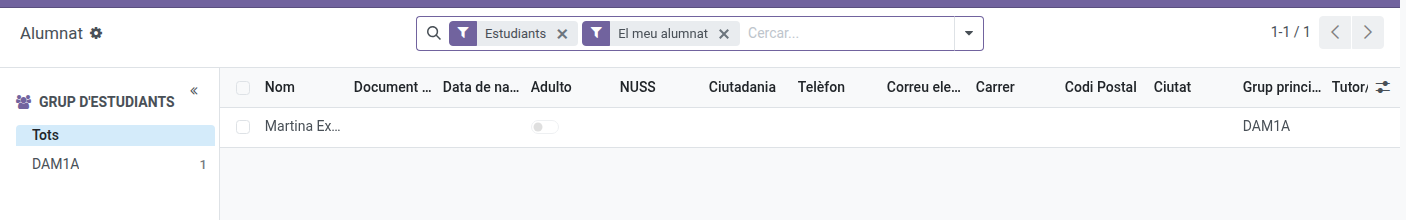
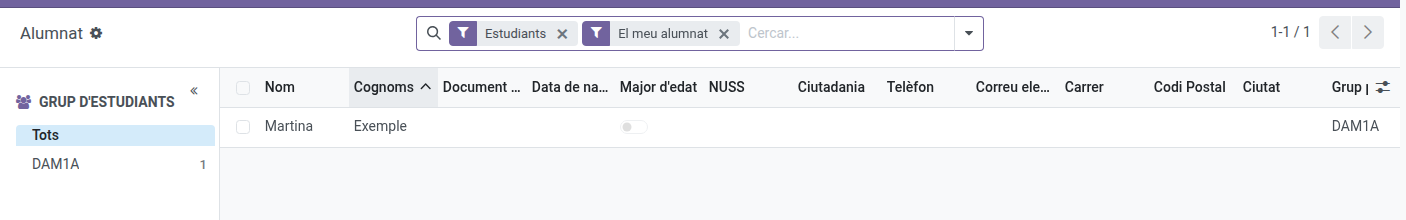
Students list: first name and last name columns, sorted by last name
Closes #655

diff --git a/static/tests/tours/withdrawal_tour.js b/static/tests/tours/withdrawal_tour.js
@@ -1,6 +1,7 @@
 /** @odoo-module **/
 
 import { registry } from "@web/core/registry";
+import { searchStudent, studentCell, studentRow } from "@ems/../tests/tours/student_list_helpers";
 
 // Archiving via the generic "Archive" action (form cog-menu for a single record, list
 // multi-selection for several) must open the withdrawal wizard — not archive silently.
@@ -20,8 +21,9 @@ registry.category("web_tour.tours").add("ems_archive_action_single_opens_wizard"
             content: "Switch to list view",
             run: "click",
         },
+        ...searchStudent("Archive Action Tour Single"),
         {
-            trigger: ".o_list_view .o_data_row .o_data_cell:contains('Archive Action Tour Single')",
+            trigger: `.o_list_view ${studentCell("Archive Action Tour Single")}`,
             content: "Open the seeded student",
             run: "click",
         },
@@ -96,15 +98,16 @@ registry.category("web_tour.tours").add("ems_archive_action_bulk_opens_wizard", 
             content: "Switch to list view",
             run: "click",
         },
+        ...searchStudent("Archive Action Tour Bulk"),
         {
             trigger:
-                ".o_data_row:has(.o_data_cell:contains('Archive Action Tour Bulk A')) .o_list_record_selector",
+                `${studentRow("Archive Action Tour Bulk A")} .o_list_record_selector`,
             content: "Select the first seeded student",
             run: "click",
         },
         {
             trigger:
-                ".o_data_row:has(.o_data_cell:contains('Archive Action Tour Bulk B')) .o_list_record_selector",
+                `${studentRow("Archive Action Tour Bulk B")} .o_list_record_selector`,
             content: "Select the second seeded student",
             run: "click",
         },
@@ -150,7 +153,7 @@ registry.category("web_tour.tours").add("ems_archive_action_bulk_opens_wizard", 
         },
         {
             trigger:
-                ".o_list_view:not(:has(.o_data_cell:contains('Archive Action Tour Bulk A')))",
+                `.o_list_view:not(:has(${studentRow("Archive Action Tour Bulk A")}))`,
             content: "Both withdrawn students no longer show under the default Students filter",
         },
     ],
@@ -174,8 +177,9 @@ registry.category("web_tour.tours").add("ems_archive_action_expulsion_opens_wiza
             content: "Switch to list view",
             run: "click",
         },
+        ...searchStudent("Archive Action Tour Expulsion"),
         {
-            trigger: ".o_list_view .o_data_row .o_data_cell:contains('Archive Action Tour Expulsion')",
+            trigger: `.o_list_view ${studentCell("Archive Action Tour Expulsion")}`,
             content: "Open the seeded student",
             run: "click",
         },
@@ -316,7 +320,7 @@ registry.category("web_tour.tours").add("ems_archive_action_shows_in_list", {
             run: "click",
         },
         {
-            trigger: ".o_list_view .o_data_row .o_data_cell:contains('Archive Action Tour Single')",
+            trigger: `.o_list_view ${studentCell("Archive Action Tour Single")}`,
             content: "The withdrawn (now archived) student still shows up under Former students",
         },
     ],

diff --git a/static/tests/tours/contact_tour.js b/static/tests/tours/contact_tour.js
@@ -1,6 +1,7 @@
 /** @odoo-module **/
 
 import { registry } from "@web/core/registry";
+import { searchStudent, studentCell } from "@ems/../tests/tours/student_list_helpers";
 
 // Opens a freshly seeded student (created by the Python test, not a real production
 // contact — see test_contact_tour.py) so this tour is free to actually create data:
@@ -40,8 +41,9 @@ registry.category("web_tour.tours").add("ems_contact_tabs_and_relation_wizard", 
             content: "Switch to list view",
             run: "click",
         },
+        ...searchStudent("Contact Tour Student"),
         {
-            trigger: ".o_list_view .o_data_row .o_data_cell:contains('Contact Tour Student')",
+            trigger: `.o_list_view ${studentCell("Contact Tour Student")}`,
             content: "Open the seeded student",
             run: "click",
         },
@@ -176,6 +178,43 @@ registry.category("web_tour.tours").add("ems_contact_tabs_and_relation_wizard", 
         {
             trigger: ".o_form_view .o_field_widget[name='relation_all_ids'] .o_data_row td:contains('Tour Father')",
             content: "The new relation shows up in the Addresses tab list",
+        },
+    ],
+});
+
+// Issue #655: the Students list shows first name and last name as columns of their own, sorted by
+// last name like the roll-call, and the complete name is hidden by default. The fixture's last
+// names start with "Tslt" so they sort together, Aguilar before Bosch, the reverse of their
+// first names.
+registry.category("web_tour.tours").add("ems_students_list_sorted_by_last_name", {
+    test: true,
+    url: "/odoo/action-ems.action_student_kanban",
+    steps: () => [
+        {
+            trigger: ".o_switch_view.o_list",
+            content: "Switch to list view",
+            run: "click",
+        },
+        {
+            trigger: ".o_list_view th[data-name='firstname'] + th[data-name='lastname']",
+            content: "First name and last name are columns of their own, in that order",
+        },
+        {
+            trigger: ".o_list_view:not(:has(th[data-name='complete_name']))",
+            content: "The complete name is hidden by default",
+        },
+        {
+            trigger: ".o_list_view .o_data_row:first-child td[name='lastname']:contains('Tslt Aguilar')",
+            content: "Sorted by last name: Zoe Tslt Aguilar comes before Ana Tslt Bosch",
+        },
+        {
+            trigger: ".o_list_view th[data-name='lastname']",
+            content: "Sort by last name the other way round",
+            run: "click",
+        },
+        {
+            trigger: ".o_list_view .o_data_row:first-child td[name='lastname']:contains('Tslt Bosch')",
+            content: "Now Bosch comes first",
         },
     ],
 });

diff --git a/static/tests/tours/student_my_groups_tour.js b/static/tests/tours/student_my_groups_tour.js
@@ -1,6 +1,7 @@
 /** @odoo-module **/
 
 import { registry } from "@web/core/registry";
+import { searchStudent, studentCell, studentRow } from "@ems/../tests/tours/student_list_helpers";
 
 // Issue #421: the Students action opens with a second default facet ("My students") that
 // scopes the list to the groups the logged-in teacher actually teaches or tutors. Runs as a
@@ -23,12 +24,13 @@ registry.category("web_tour.tours").add("ems_student_my_groups", {
             content: "Switch to list view",
             run: "click",
         },
+        ...searchStudent("My Groups"),
         {
-            trigger: ".o_list_view .o_data_cell:contains('0000 My Groups Own Student')",
+            trigger: `.o_list_view ${studentCell("0000 My Groups Own Student")}`,
             content: "The student of the teacher's own group is listed",
         },
         {
-            trigger: ".o_list_view:not(:has(.o_data_cell:contains('0001 My Groups Other Student')))",
+            trigger: `.o_list_view:not(:has(${studentRow("0001 My Groups Other Student")}))`,
             content: "A student of a group this teacher does not teach is filtered out",
         },
         {
@@ -37,7 +39,7 @@ registry.category("web_tour.tours").add("ems_student_my_groups", {
             run: "click",
         },
         {
-            trigger: ".o_list_view .o_data_cell:contains('0001 My Groups Other Student')",
+            trigger: `.o_list_view ${studentCell("0001 My Groups Other Student")}`,
             content: "Every student is visible again once the facet is cleared",
         },
         {

diff --git a/static/tests/tours/student_list_helpers.js b/static/tests/tours/student_list_helpers.js
@@ -1,0 +1,28 @@
+/** @odoo-module **/
+
+// The Students list shows the first name and the last names as columns of their own, never the
+// complete name (issue #655). partner_firstname, with the centre's "first_last" order, keeps the
+// first word of a name as the first name and the rest as the last names. `name` is (part of) a
+// complete name: whether or not it starts with the first name, everything after its first word is
+// in the last names, so the row is found by that.
+export function studentRow(name) {
+    const lastnames = name.split(" ").slice(1).join(" ") || name;
+    return `.o_data_row:has(.o_data_cell[name='lastname']:contains('${lastnames}'))`;
+}
+
+// A cell of that student's row, to open it.
+export function studentCell(name) {
+    return `${studentRow(name)} .o_data_cell[name='lastname']`;
+}
+
+// Steps searching the Students list for `text`, so a test student is found on the first page
+// whatever the centre's own students are: the list is sorted by last name.
+export function searchStudent(text) {
+    return [
+        // Only once the list is loaded: typed while the view is still switching, the text is lost.
+        { trigger: ".o_list_view .o_data_row", content: "The list is loaded" },
+        { trigger: ".o_searchview_input", content: `Search for ${text}`, run: `edit ${text}` },
+        { trigger: ".o_searchview_input", content: "Confirm the search", run: "press Enter" },
+        { trigger: `.o_searchview_facet:contains('${text}')`, content: "The search facet is applied" },
+    ];
+}

diff --git a/static/tests/tours/student_google_workspace_tour.js b/static/tests/tours/student_google_workspace_tour.js
@@ -1,6 +1,7 @@
 /** @odoo-module **/
 
 import { registry } from "@web/core/registry";
+import { searchStudent, studentCell } from "@ems/../tests/tours/student_list_helpers";
 import { checkActions, clickAction } from "@ems/../tests/tours/actions_dropdown_helpers";
 
 // Covers the two-stage leaving lifecycle (#388) as it is rendered on the student form
@@ -26,8 +27,9 @@ registry.category("web_tour.tours").add("ems_student_google_workspace_lifecycle"
             run: "click",
         },
         // --- stage 1: deactivation scheduled, nothing changed in Google yet ---
+        ...searchStudent("GW Student"),
         {
-            trigger: ".o_list_view .o_data_row .o_data_cell:contains('0000 GW Student Scheduled')",
+            trigger: `.o_list_view ${studentCell("0000 GW Student Scheduled")}`,
             content: "Open the student whose deactivation is scheduled",
             run: "click",
         },
@@ -55,7 +57,7 @@ registry.category("web_tour.tours").add("ems_student_google_workspace_lifecycle"
         },
         // --- stage 2: suspended, deletion scheduled --------------------------
         {
-            trigger: ".o_list_view .o_data_row .o_data_cell:contains('0000 GW Student Suspended')",
+            trigger: `.o_list_view ${studentCell("0000 GW Student Suspended")}`,
             content: "Open the suspended student",
             run: "click",
         },

diff --git a/static/tests/tours/contact_wpi_readonly_tour.js b/static/tests/tours/contact_wpi_readonly_tour.js
@@ -1,6 +1,7 @@
 /** @odoo-module **/
 
 import { registry } from "@web/core/registry";
+import { searchStudent, studentCell } from "@ems/../tests/tours/student_list_helpers";
 
 // Regression (found 2026-09-06, alongside issue #395): 'wpi_enrolled' was missing
 // 'read_only_user' from its readonly condition - is_tutor_readonly alone is False for a
@@ -28,8 +29,9 @@ registry.category("web_tour.tours").add("ems_contact_wpi_readonly_for_non_tutora
             content: "Switch to list view",
             run: "click",
         },
+        ...searchStudent("0001 Group Change Tour Non-Tutorand"),
         {
-            trigger: ".o_list_view .o_data_row .o_data_cell:contains('0001 Group Change Tour Non-Tutorand')",
+            trigger: `.o_list_view ${studentCell("0001 Group Change Tour Non-Tutorand")}`,
             content: "Open a student this teacher/tutor does NOT tutor",
             run: "click",
         },

diff --git a/static/tests/tours/contact_head_of_studies_tour.js b/static/tests/tours/contact_head_of_studies_tour.js
@@ -1,6 +1,7 @@
 /** @odoo-module **/
 
 import { registry } from "@web/core/registry";
+import { searchStudent, studentCell } from "@ems/../tests/tours/student_list_helpers";
 
 // Issue #448: a Head/Deputy Head of Studies (not the student's own tutor) reported the
 // personal-data block hidden and an AccessError deleting a family contact. tests/
@@ -26,8 +27,9 @@ registry.category("web_tour.tours").add("ems_contact_head_of_studies_full_access
             content: "Switch to list view",
             run: "click",
         },
+        ...searchStudent("HoS Contact Tour Student"),
         {
-            trigger: ".o_list_view .o_data_row .o_data_cell:contains('HoS Contact Tour Student')",
+            trigger: `.o_list_view ${studentCell("HoS Contact Tour Student")}`,
             content: "Open the seeded student",
             run: "click",
         },

diff --git a/static/tests/tours/enrollment_slot_tour.js b/static/tests/tours/enrollment_slot_tour.js
@@ -1,6 +1,7 @@
 /** @odoo-module **/
 
 import { registry } from "@web/core/registry";
+import { searchStudent, studentCell } from "@ems/../tests/tours/student_list_helpers";
 
 // Issue #534, Studies tab: switch on "Custom schedule", customize the subject (its group's
 // sessions become editable slots), drop Tuesday with group C and add Wednesday with group D.
@@ -13,8 +14,9 @@ registry.category("web_tour.tours").add("ems_enrollment_slot", {
             content: "Switch to list view",
             run: "click",
         },
+        ...searchStudent("0000 TSLT Split Student"),
         {
-            trigger: ".o_list_view .o_data_row .o_data_cell:contains('0000 TSLT Split Student')",
+            trigger: `.o_list_view ${studentCell("0000 TSLT Split Student")}`,
             content: "Open the student",
             run: "click",
         },

diff --git a/static/tests/tours/enrollment_subject_group_tour.js b/static/tests/tours/enrollment_subject_group_tour.js
@@ -1,6 +1,7 @@
 /** @odoo-module **/
 
 import { registry } from "@web/core/registry";
+import { searchStudent, studentCell } from "@ems/../tests/tours/student_list_helpers";
 
 // Studies tab of a 2nd-year student: the subject dropdown only offers subjects of the
 // student's own study, and a subject the 1st-year enrollment template sells goes to the
@@ -14,8 +15,9 @@ registry.category("web_tour.tours").add("ems_enrollment_subject_group", {
             content: "Switch to list view",
             run: "click",
         },
+        ...searchStudent("0000 TESGT Student"),
         {
-            trigger: ".o_list_view .o_data_row .o_data_cell:contains('0000 TESGT Student')",
+            trigger: `.o_list_view ${studentCell("0000 TESGT Student")}`,
             content: "Open the student",
             run: "click",
         },

diff --git a/static/tests/tours/year_record_tour.js b/static/tests/tours/year_record_tour.js
@@ -1,6 +1,7 @@
 /** @odoo-module **/
 
 import { registry } from "@web/core/registry";
+import { studentCell } from "@ems/../tests/tours/student_list_helpers";
 
 // "Academic history" (action_year_record_list, ems.student.year_record) had zero coverage -
 // neither its own standalone list/form, nor the nested subject/outcome dialogs it opens, nor
@@ -69,7 +70,7 @@ registry.category("web_tour.tours").add("ems_year_record_partner_tab", {
             content: "The search facet is applied",
         },
         {
-            trigger: ".o_list_view .o_data_cell:contains('Year Record Tour Student')",
+            trigger: `.o_list_view ${studentCell("Year Record Tour Student")}`,
             content: "Open the seeded student",
             run: "click",
         },

diff --git a/static/tests/tours/contact_group_change_tour.js b/static/tests/tours/contact_group_change_tour.js
@@ -1,6 +1,7 @@
 /** @odoo-module **/
 
 import { registry } from "@web/core/registry";
+import { studentCell } from "@ems/../tests/tours/student_list_helpers";
 
 // Issue #395: a tutor can now change their tutorand's main group (e.g. moving the student
 // from group A to group B) - this field used to be locked by 'is_tutor_readonly' for tutors
@@ -21,7 +22,7 @@ registry.category("web_tour.tours").add("ems_contact_group_change", {
             run: "click",
         },
         {
-            trigger: ".o_list_view .o_data_row .o_data_cell:contains('0000 Group Change Tour Student')",
+            trigger: `.o_list_view ${studentCell("0000 Group Change Tour Student")}`,
             content: "Open the tutorand",
             run: "click",
         },

diff --git a/static/tests/tours/enrollment_slot_tutor_tour.js b/static/tests/tours/enrollment_slot_tutor_tour.js
@@ -1,6 +1,7 @@
 /** @odoo-module **/
 
 import { registry } from "@web/core/registry";
+import { studentCell } from "@ems/../tests/tours/student_list_helpers";
 
 // Issue #534, as the student's tutor: the enrollment list is read-only (no "Add a line" - only the
 // secretary's office and academic administration add or remove enrollments), but its row buttons
@@ -15,7 +16,7 @@ registry.category("web_tour.tours").add("ems_enrollment_slot_tutor", {
             run: "click",
         },
         {
-            trigger: ".o_list_view .o_data_row .o_data_cell:contains('0000 TSLT Split Student')",
+            trigger: `.o_list_view ${studentCell("0000 TSLT Split Student")}`,
             content: "Open the student",
             run: "click",
         },
